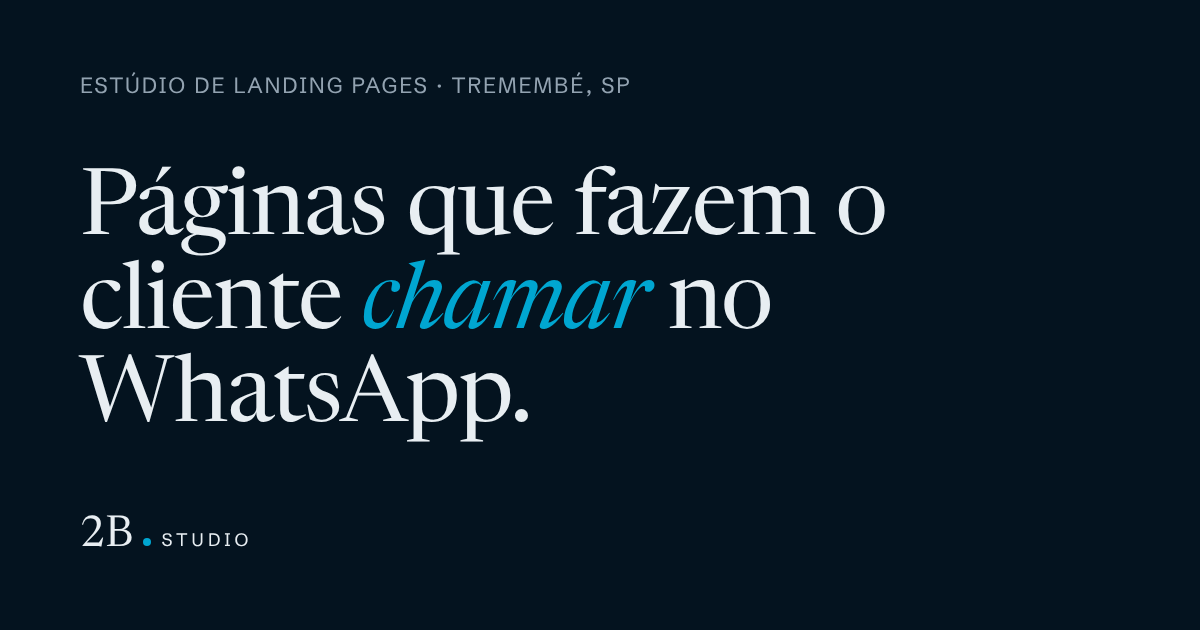
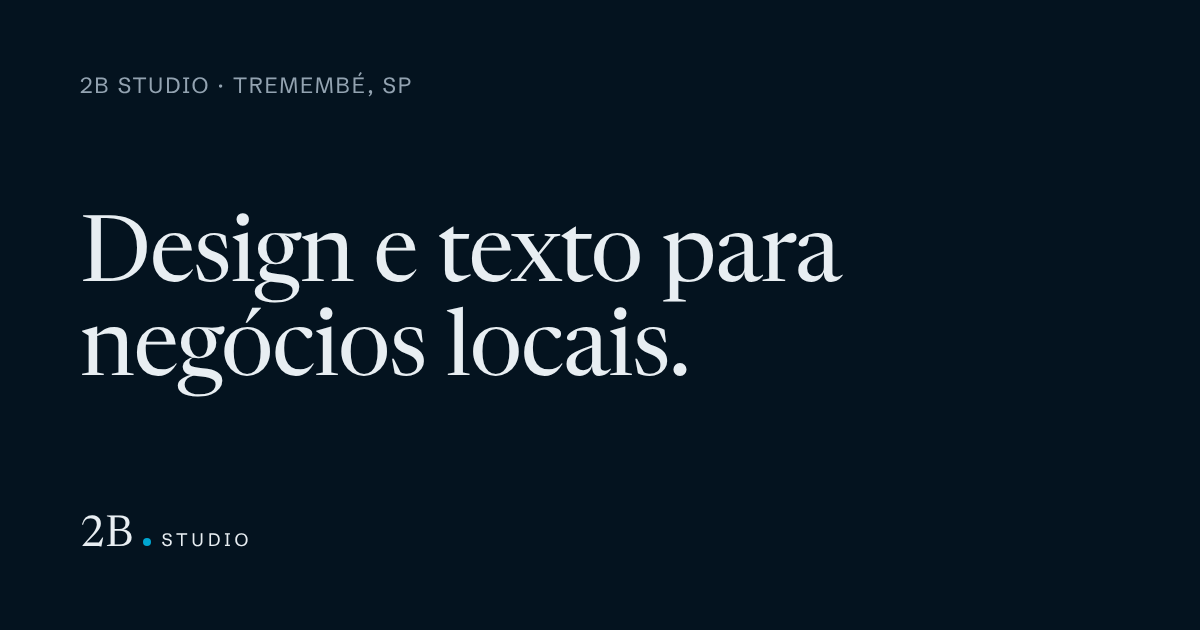
Hero mais sóbrio, focado na marca e nos sócios
Claude-Session: https://claude.ai/code/session_01SSpDtY9G1CsndzncSp5CQs

Changed region(s): [[0.0617, 0.2413, 0.74, 0.7238], [0.0617, 0.1206, 0.5242, 0.1508]]

diff --git a/src/data/site.ts b/src/data/site.ts
@@ -18,9 +18,9 @@ export const site = {
   name: '2B Studio',
   city: 'Tremembé',
   state: 'SP',
-  title: '2B Studio · Landing pages para negócios do Vale do Paraíba',
+  title: '2B Studio · Design e texto para negócios locais em Tremembé, SP',
   description:
-    'Estúdio de landing pages em Tremembé, SP. Design e texto para negócios locais, no ar em até 7 dias e com o valor combinado antes de começar.',
+    'O 2B Studio é o João e o Miguel, de Tremembé, SP. Fazemos landing pages para negócios locais, com design e texto pensados juntos do briefing à publicação.',
   defaultMessage: 'Olá! Vim pelo site do 2B Studio e quero conversar sobre uma landing page.',
   // PENDENTE: links reais. Vazio = o item não aparece.
   instagram: '',
